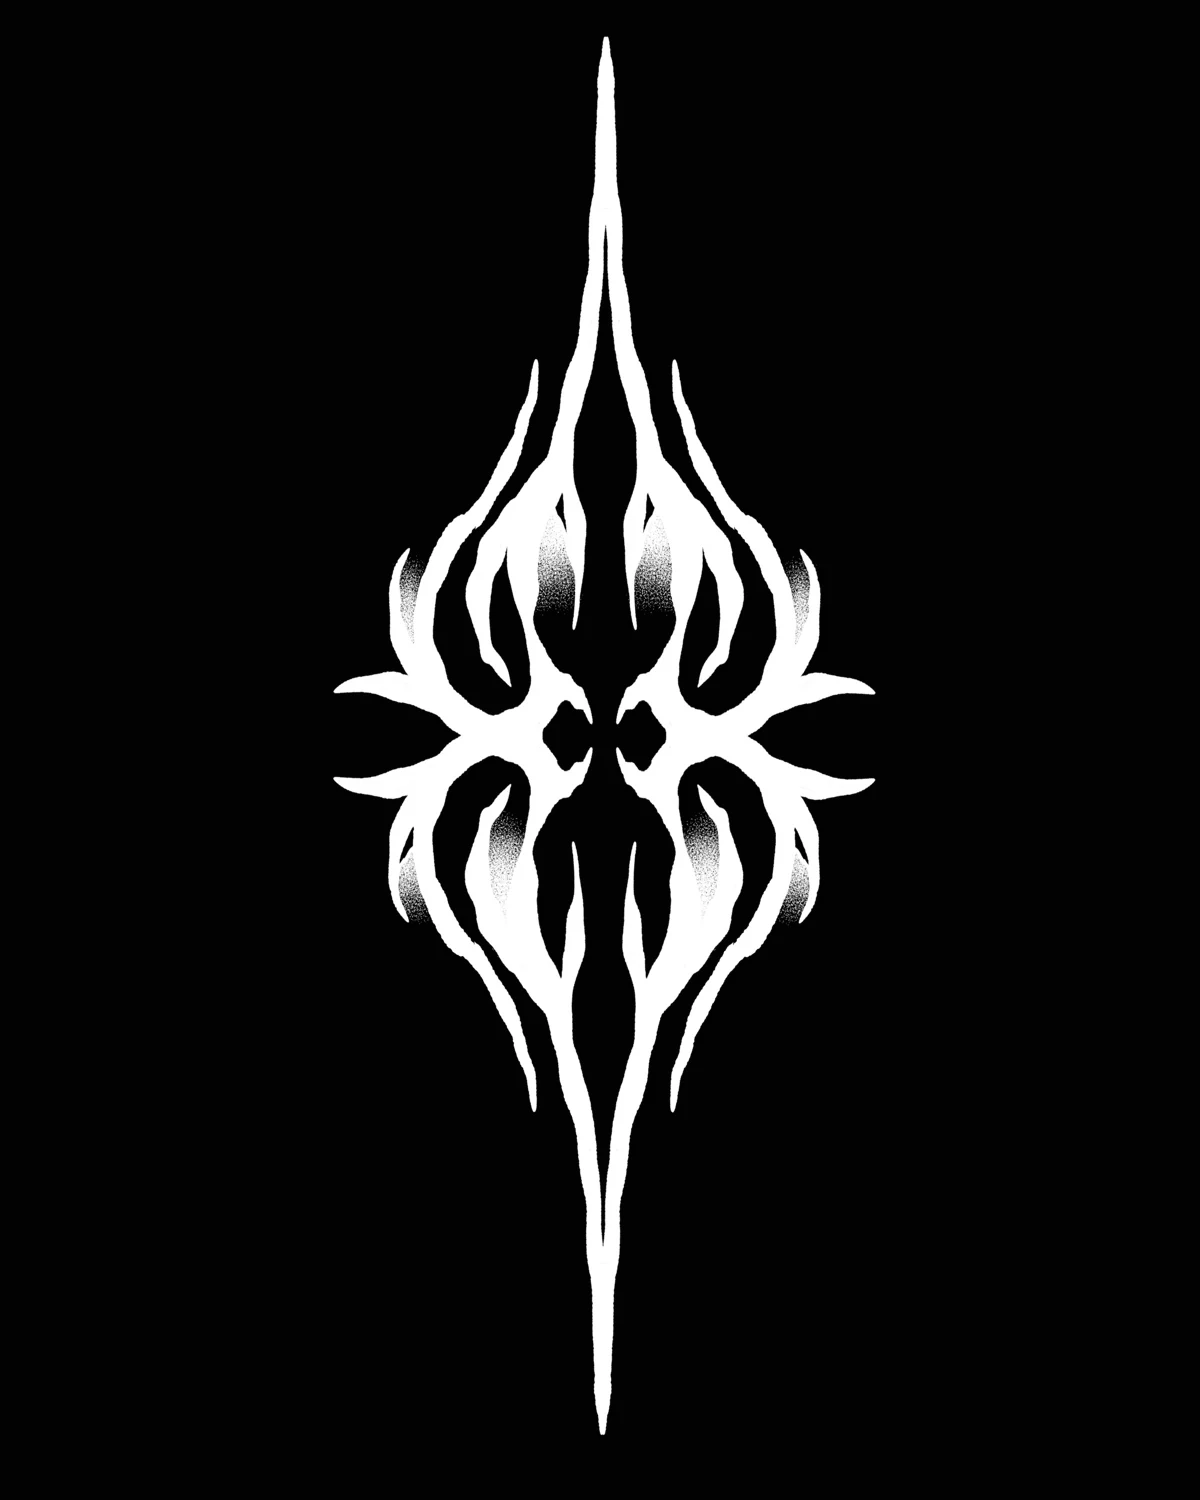
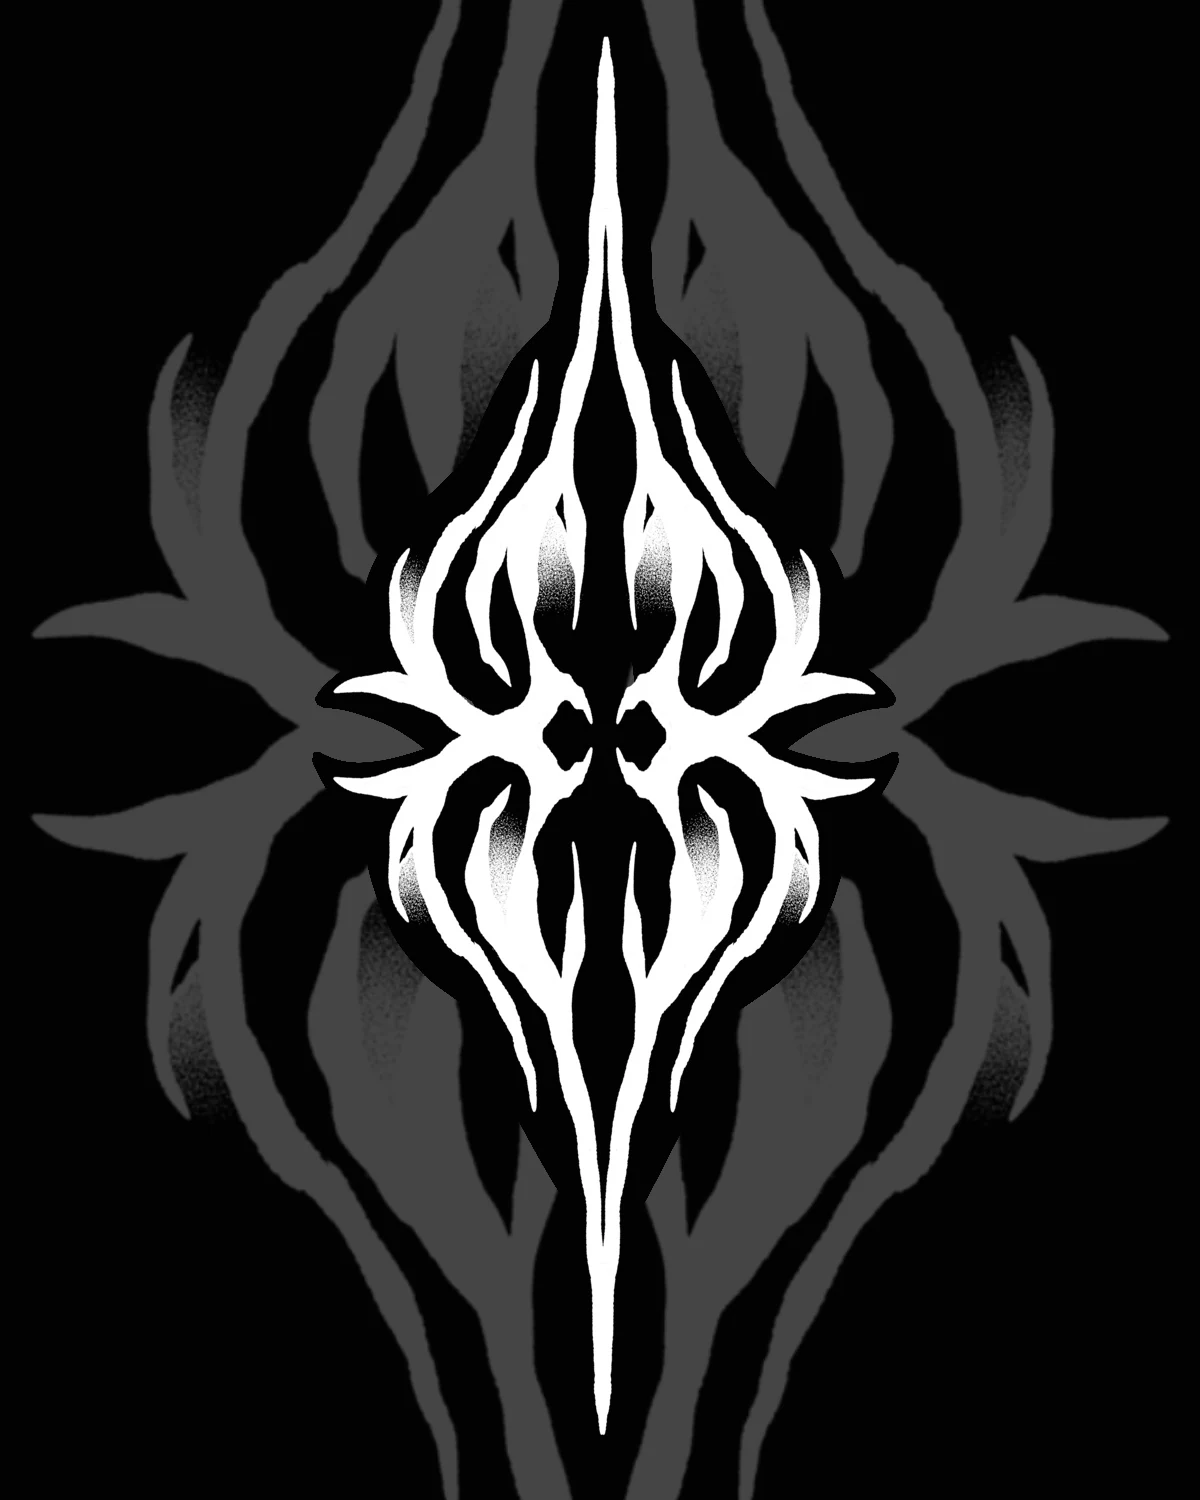
Update the Smaller Flashes style cover artwork.
Refresh the webp from the new source image and bump the catalog cache version.

Changed region(s): [[0.5242, 0.0, 0.9867, 1.0], [0.0308, 0.0, 0.4933, 1.0]]

diff --git a/flashes.html b/flashes.html
@@ -86,7 +86,7 @@ height="0" width="0" style="display:none;visibility:hidden"></iframe></noscript>
   </footer>  <script src="analytics.js?v=5"></script>
   <script src="script.js"></script>
   <script src="flashes-tap.js?v=1"></script>
-  <script src="flashes-data.js?v=129"></script>
+  <script src="flashes-data.js?v=130"></script>
   <script src="flashes-catalog-ui.js?v=4"></script>
   <script src="flashes-style.js?v=105"></script>
 </body>

diff --git a/index.html b/index.html
@@ -559,7 +559,7 @@ height="0" width="0" style="display:none;visibility:hidden"></iframe></noscript>
   <script src="analytics.js?v=5" defer></script>
   <script src="form-submit.js?v=9" defer></script>
   <script src="script.js?v=85" defer></script>
-  <script src="flashes-data.js?v=129" defer></script>
+  <script src="flashes-data.js?v=130" defer></script>
   <script src="index-flashes.js?v=106" defer></script>
 </body>
 </html>

diff --git a/flash-quote.html b/flash-quote.html
@@ -146,7 +146,7 @@ height="0" width="0" style="display:none;visibility:hidden"></iframe></noscript>
   <script src="form-submit.js?v=9"></script>
   <script src="script.js?v=85"></script>
   <script src="flashes-catalog-ui.js?v=10"></script>
-  <script src="flashes-data.js?v=129"></script>
+  <script src="flashes-data.js?v=130"></script>
   <script src="flash-quote.js?v=16"></script>
 </body>
 </html>

diff --git a/flashes-body-front.html b/flashes-body-front.html
@@ -86,7 +86,7 @@ height="0" width="0" style="display:none;visibility:hidden"></iframe></noscript>
   <script src="script.js"></script>
   <script src="flashes-tap.js?v=1"></script>
   <script src="flashes-catalog-ui.js?v=2"></script>
-  <script src="flashes-data.js?v=129"></script>
+  <script src="flashes-data.js?v=130"></script>
   <script src="flashes-body-front.js?v=84"></script>
 </body>
 </html>

diff --git a/flashes-gallery.html b/flashes-gallery.html
@@ -91,7 +91,7 @@ height="0" width="0" style="display:none;visibility:hidden"></iframe></noscript>
   <script src="script.js"></script>
   <script src="flashes-tap.js?v=1"></script>
   <script src="flashes-catalog-ui.js?v=10"></script>
-  <script src="flashes-data.js?v=129"></script>
+  <script src="flashes-data.js?v=130"></script>
   <script src="flashes-gallery.js?v=94"></script>
 </body>
 </html>

diff --git a/flashes-arms.html b/flashes-arms.html
@@ -86,7 +86,7 @@ height="0" width="0" style="display:none;visibility:hidden"></iframe></noscript>
   <script src="script.js"></script>
   <script src="flashes-tap.js?v=1"></script>
   <script src="flashes-catalog-ui.js?v=2"></script>
-  <script src="flashes-data.js?v=129"></script>
+  <script src="flashes-data.js?v=130"></script>
   <script src="flashes-arms.js?v=87"></script>
 </body>
 </html>

diff --git a/flashes-back.html b/flashes-back.html
@@ -86,7 +86,7 @@ height="0" width="0" style="display:none;visibility:hidden"></iframe></noscript>
   <script src="script.js"></script>
   <script src="flashes-tap.js?v=1"></script>
   <script src="flashes-catalog-ui.js?v=2"></script>
-  <script src="flashes-data.js?v=129"></script>
+  <script src="flashes-data.js?v=130"></script>
   <script src="flashes-back.js?v=87"></script>
 </body>
 </html>

diff --git a/flashes-body.html b/flashes-body.html
@@ -84,7 +84,7 @@ height="0" width="0" style="display:none;visibility:hidden"></iframe></noscript>
   <script src="script.js"></script>
   <script src="flashes-tap.js?v=1"></script>
   <script src="flashes-catalog-ui.js?v=2"></script>
-  <script src="flashes-data.js?v=129"></script>
+  <script src="flashes-data.js?v=130"></script>
   <script src="flashes-body.js?v=48"></script>
 </body>
 </html>

diff --git a/flashes-head.html b/flashes-head.html
@@ -86,7 +86,7 @@ height="0" width="0" style="display:none;visibility:hidden"></iframe></noscript>
   <script src="script.js"></script>
   <script src="flashes-tap.js?v=1"></script>
   <script src="flashes-catalog-ui.js?v=2"></script>
-  <script src="flashes-data.js?v=129"></script>
+  <script src="flashes-data.js?v=130"></script>
   <script src="flashes-head.js?v=91"></script>
 </body>
 </html>

diff --git a/flashes-legs.html b/flashes-legs.html
@@ -86,7 +86,7 @@ height="0" width="0" style="display:none;visibility:hidden"></iframe></noscript>
   <script src="script.js"></script>
   <script src="flashes-tap.js?v=1"></script>
   <script src="flashes-catalog-ui.js?v=2"></script>
-  <script src="flashes-data.js?v=129"></script>
+  <script src="flashes-data.js?v=130"></script>
   <script src="flashes-legs.js?v=93"></script>
 </body>
 </html>

diff --git a/flashes-data.js b/flashes-data.js
@@ -2,7 +2,7 @@
  * Flash styles, body parts, and catalog.
  * Bump FLASHES_IMG_V when replacing covers.
  */
-window.FLASHES_IMG_V = '129';
+window.FLASHES_IMG_V = '130';
 
 /** Only this style uses body-part and zone placement pickers. */
 window.FLASH_STYLE_USES_PLACEMENT = 'dark-abstract';
